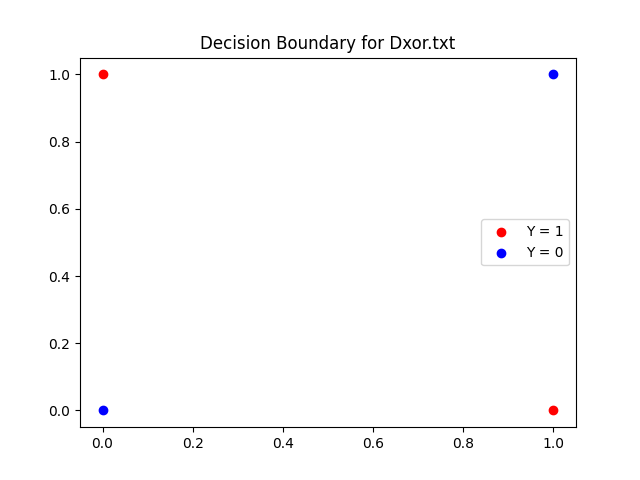
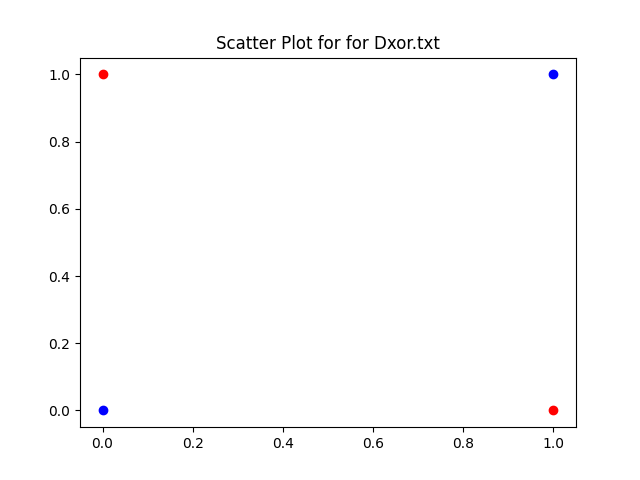
Modified a plot

Changed region(s): [[0.3125, 0.0625, 0.7188, 0.125], [0.75, 0.4688, 0.9062, 0.5625]]

diff --git a/scatter.py b/scatter.py
@@ -12,8 +12,8 @@ def scatter(filename):
 
     plt.scatter(red_x, red_y, label="Y = 1", color='red')
     plt.scatter(blue_x, blue_y, label="Y = 0", color='blue')
-    plt.title("Decision Boundary for "+filename)
+    plt.title("Scatter Plot for for "+filename)
 
 if __name__ == '__main__':
-    scatter('D1.txt')
+    scatter('Dxor.txt')
     plt.show()
